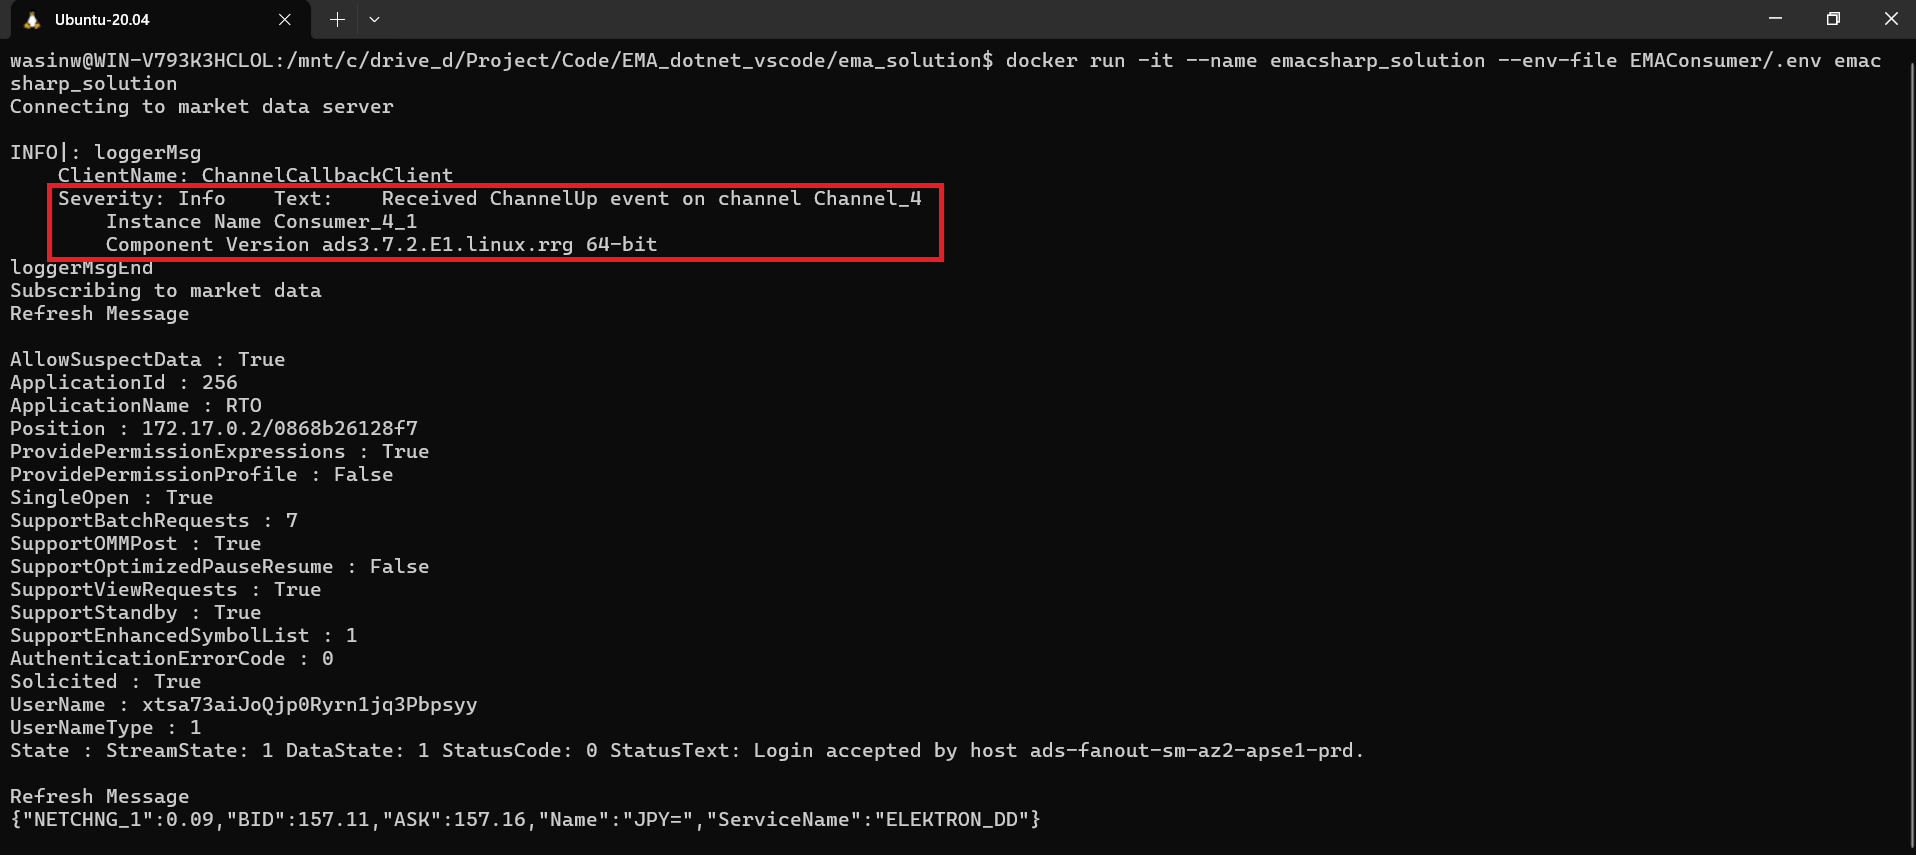
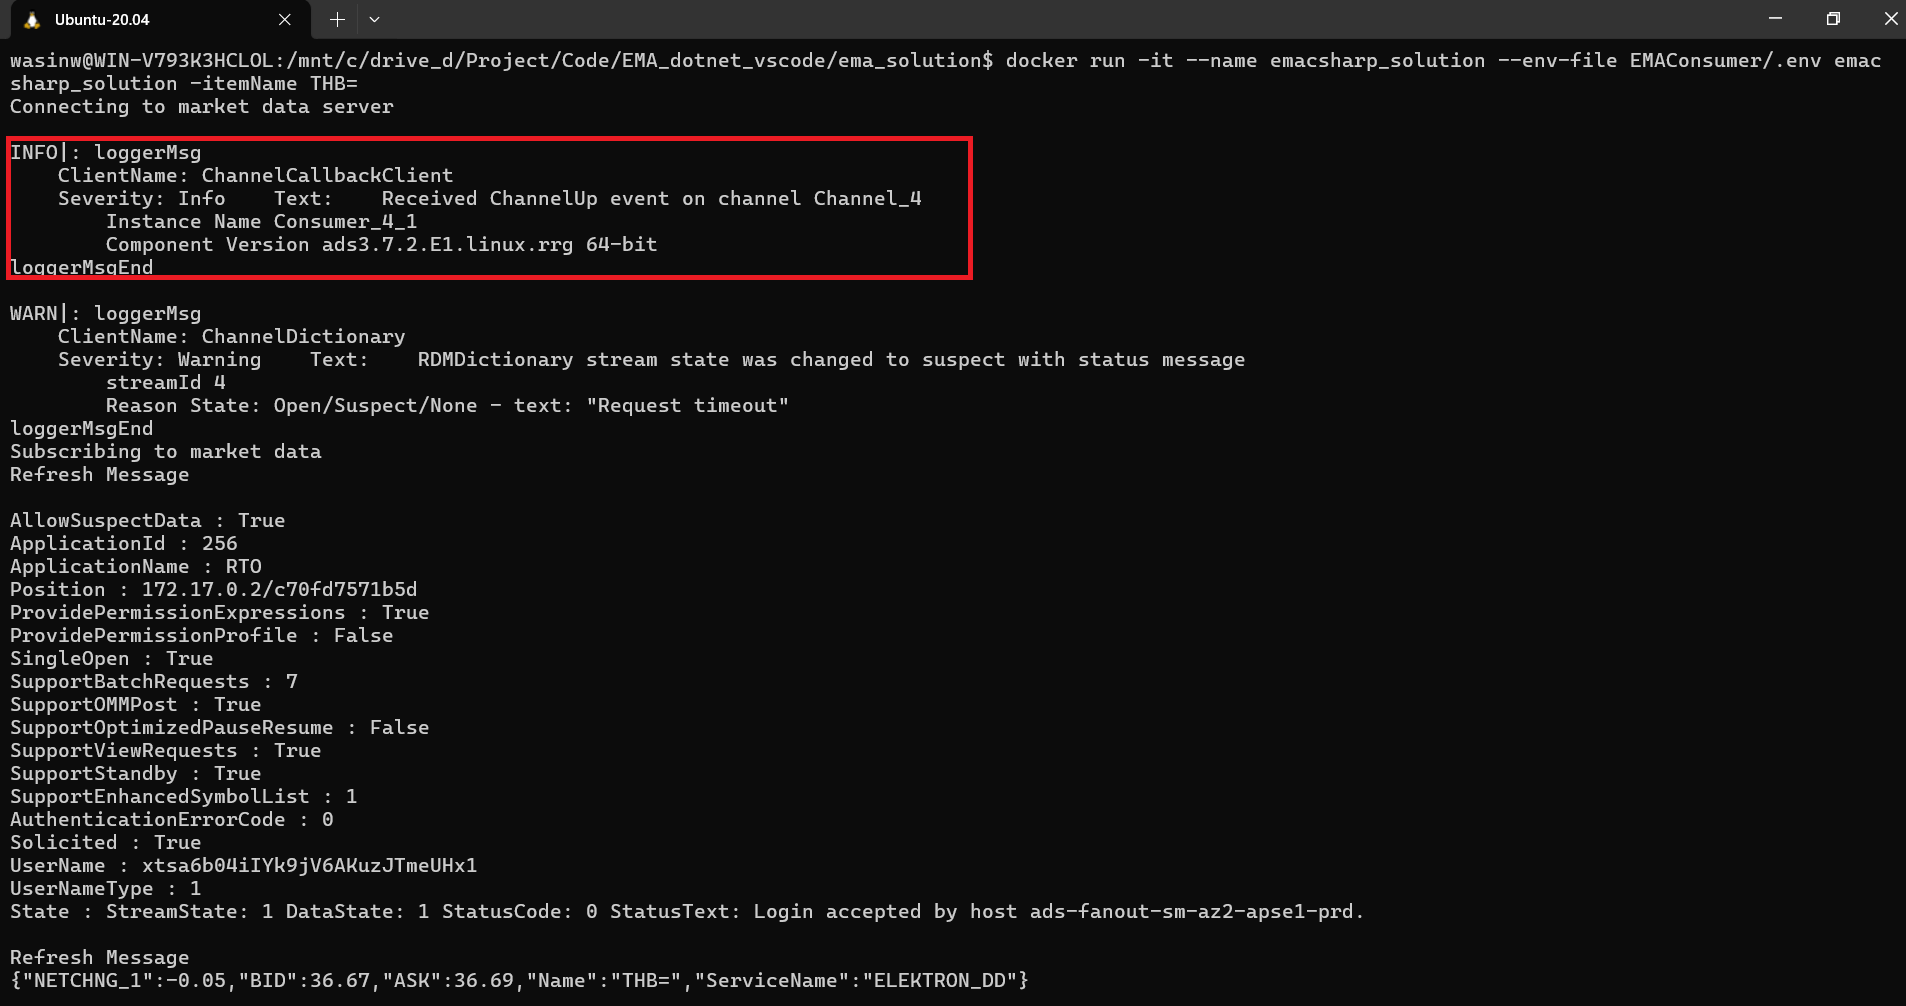
Update Code to receive command line argument Update Docker readme.

Changed region(s): [[0.0, 0.0, 1.0, 1.0], [0.9906, 0.0912, 1.0, 1.0]]

diff --git a/ema_solution/EMAConsumer/Program.cs b/ema_solution/EMAConsumer/Program.cs
@@ -109,23 +109,80 @@ internal class AppClient: IOmmConsumerClient
 }
 class Program
 {
+    public static string RicName { get; set; } = "JPY=";
+    public static string? clientID { get; set; } = "<Client_ID>";
+    public static string? clientSecret { get; set; } = "<Client_Secret>";
+
+    static void printHelp()
+	{
+	    Console.WriteLine("\nOptions:\n" + "  -H\tShows this usage\n"
+	    		+ "  -clientId machine account to perform authorization with the\r\n" 
+	    		+ "\ttoken service (can be set via CLIENT_ID environment variable).\n"
+	    		+ "  -clientSecret associated client secret with the machine id \r\n"
+	    		+ "\tservice (can be set via CLIENT_SECRET environment variable).\n"
+	    		+ "  -itemName Request item name (optional).\n"
+	    		+ "\n");
+	}
+
+    static void readCommandlineArgs(string[] args)
+	{
+        try
+	    {
+            int argsCount = 0;
+            while (argsCount < args.Length)
+	        {
+                if (0 == args[argsCount].CompareTo("-H"))
+	            {
+	                printHelp();
+                    Environment.Exit(0);
+	            }
+                 else if ("-clientId".Equals(args[argsCount]))
+    			{
+                    clientID = argsCount < (args.Length - 1) ? args[++argsCount] : null;
+    				++argsCount;				
+    			}
+	            else if ("-clientSecret".Equals(args[argsCount]))
+    			{
+	            	clientSecret = argsCount < (args.Length-1) ? args[++argsCount] : null;
+    				++argsCount;				
+    			}
+    			else if ("-itemName".Equals(args[argsCount]))
+    			{
+    				if(argsCount < (args.Length-1))	RicName = args[++argsCount];
+    				++argsCount;
+    			}
+                else // unrecognized command line argument
+    			{
+    				printHelp();
+                    Environment.Exit(0);
+    			}	
+            }
+        }    
+        catch
+        {
+        	printHelp();
+            Environment.Exit(0);
+        }
+    }
     static void Main(string[] args)
     {
-
-        string RicName = "JPY=";
-        string ServiceName = "ELEKTRON_DD";
-        RIC ric = new RIC(RicName,ServiceName);
-
+        const string  ServiceName = "ELEKTRON_DD";
         DotNetEnv.Env.Load();
         OmmConsumer? consumer = null;
         try{
+            // Get Client ID and Client Secret from Environment variable first
+            clientID = Environment.GetEnvironmentVariable("CLIENT_ID") ?? "<Client_ID>";
+            clientSecret = Environment.GetEnvironmentVariable("CLIENT_SECRET") ?? "<Client_Secret>";
+            // Get Client ID,Client Secret, and item name from command line argument
+            readCommandlineArgs(args);
+
+            RIC ric = new RIC(RicName,ServiceName);
+
             // instantiate callback client
             AppClient appClient = new();
             appClient.SetRicObj(ric);
             Console.WriteLine("Connecting to market data server");
 
-            string clientID = Environment.GetEnvironmentVariable("CLIENT_ID") ?? "<Client_ID>";
-            string clientSecret = Environment.GetEnvironmentVariable("CLIENT_SECRET") ?? "<Client_Secret>";
             OmmConsumerConfig config = new OmmConsumerConfig().ClientId(clientID).ClientSecret(clientSecret);
             // create OMM consumer
             consumer = new OmmConsumer(config);
@@ -153,7 +210,7 @@ class Program
             RequestMsg reqMsg = new();
 
             consumer.RegisterClient(reqMsg.ServiceName(ServiceName).Name(RicName).Payload(view), appClient);
-            Thread.Sleep(60000); // 
+            Thread.Sleep(90000); // 
 
         }catch (OmmException excp){
             Console.WriteLine($"Exception subscribing to market data: {excp.Message}");

diff --git a/Article_Docker.md b/Article_Docker.md
@@ -28,6 +28,32 @@ Container Benefits:
 - Container is lightweight, so many containers can be supported on the same infrastructure.
 - Easy for rapid scale-up and scale-down scenarios.
 
+## <a id="prerequisite"></a>Prerequisite
+
+Before I am going further, there is some prerequisite, dependencies, and libraries that the project is needed.
+
+### The Main Project Prerequisite
+
+This Docker project requires all prerequisite mentioned in the [Prerequisite section of the README.md](./README.md) document.
+
+### Docker Desktop Application
+
+The [Docker Desktop](https://www.docker.com/products/docker-desktop/) application is required to run this Docker project.
+
+That covers the prerequisite of this project.
+
+## Updating EMA Solution Source Code
+
+The EMAConsumer project inside the ```ema_solution``` has been updated to receive the following information via a command line argument:
+
+- ```-clientId```: Authentication Version 2 CLIENT_ID information.
+- ```-clientSecret```: Authentication Version 2 CLIENT_SECRET information.
+- ```-itemName```: The RIC name you want to subscribe to.
+
+Please see the [Program.cs](./ema_solution/EMAConsumer/Program.cs) for more detail about the changed.
+
+**Note**: You can also set the *CLIENT_ID* and *CLIENT_SECRET* information via the Environment variables or a ```.env``` file too.
+
 ## Containerize EMA C# Project and Solution
 
 The [.NET Docker Images](https://github.com/dotnet/dotnet-docker) are hosted on the [Microsoft Container Registry repository](https://mcr.microsoft.com/en-us/). We can use a [Docker desktop application](https://www.docker.com/products/docker-desktop/) to pull .NET Docker Images directly.
@@ -85,16 +111,16 @@ Once a build process is successful, you can use a [docker images](https://docs.d
 We can run a EMA C# project container via a [docker run](https://docs.docker.com/reference/cli/docker/container/run/) command as follows (you should have a ```.env``` file that have your Authentication Version 2 define in it):
 
 ```bash
-docker run -it --name emacsharp_solution --env-file EMAConsumer/.env emacsharp_solution
+docker run -it --name emacsharp_solution --env-file EMAConsumer/.env emacsharp_solution -itemName THB=
 ```
 
 Result:
 
 ![figure-3](images/container/container_3.png)
 
-However, our images isn't optimized yet. The image size is also 893mb which is very huge. It is ideally to share smaller images among the teams.
+However, our images isn't optimized yet. The image size is also 905mb which is very huge. It is ideally to share smaller images among the teams.
 
-### Optimize dotnet Restore
+### Optimize Dotnet Restore
 
 By default, each instruction in a Dockerfile translates to a layer in your final image in an order specified. If Docker finds that you have already executed a similar instruction before, Docker skips that layer and uses the cached result instead. However, if there is a layer that have been changed (updated code, add new instruction, etc.), that layer will need to be re-built. And if a layer is changed, all other layers that come after it are also affected and need to re-built too.
 
@@ -222,6 +248,8 @@ Please be noticed that the final image is based on the [Alpine Linux](https://al
 
 ## Reference
 
+For further details, please check out the following resources:
+
 - [Docker: Containerize a .NET application](https://docs.docker.com/language/dotnet/containerize/)
 - [Microsoft Learn: Tutorial - Containerize a .NET app](https://learn.microsoft.com/en-us/dotnet/core/docker/build-container?tabs=windows&pivots=dotnet-8-0)
 - [Docker Blog: 9 Tips for Containerizing Your .NET Application](https://www.docker.com/blog/9-tips-for-containerizing-your-net-application/)
@@ -230,4 +258,6 @@ Please be noticed that the final image is based on the [Alpine Linux](https://al
 - [Dockerfile reference](https://docs.docker.com/reference/dockerfile/)
 - [Docker build reference](https://docs.docker.com/reference/cli/docker/image/build/)
 - [Docker run reference](https://docs.docker.com/reference/cli/docker/container/run/)
-
+- [Docker build cache document](https://docs.docker.com/build/cache/)
+- [Using the build cache document](https://docs.docker.com/guides/docker-concepts/building-images/using-the-build-cache/)
+- [Docker Multi-stage builds](https://docs.docker.com/build/building/multi-stage/)
